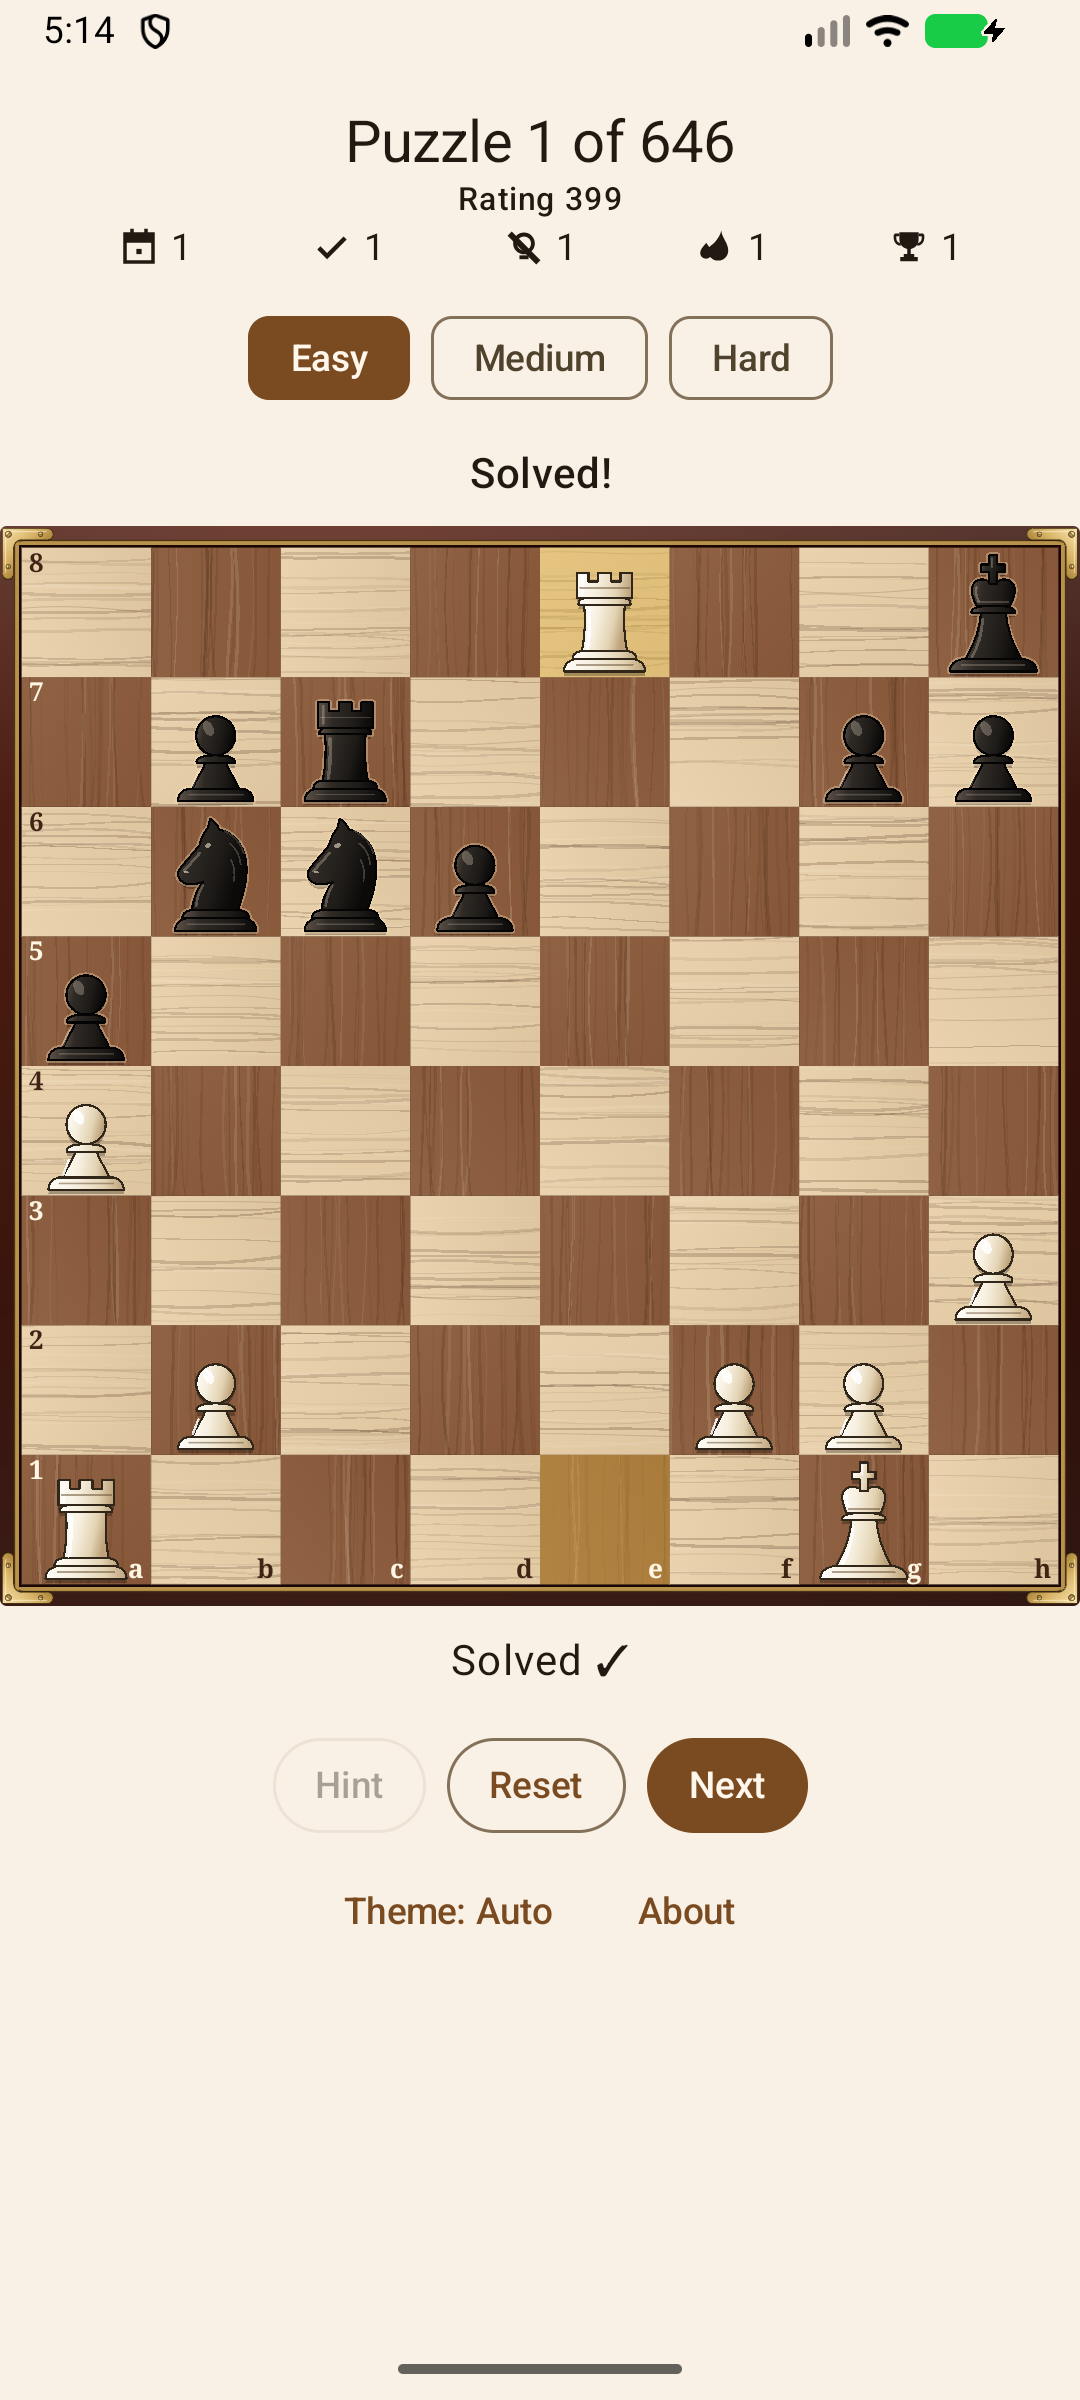
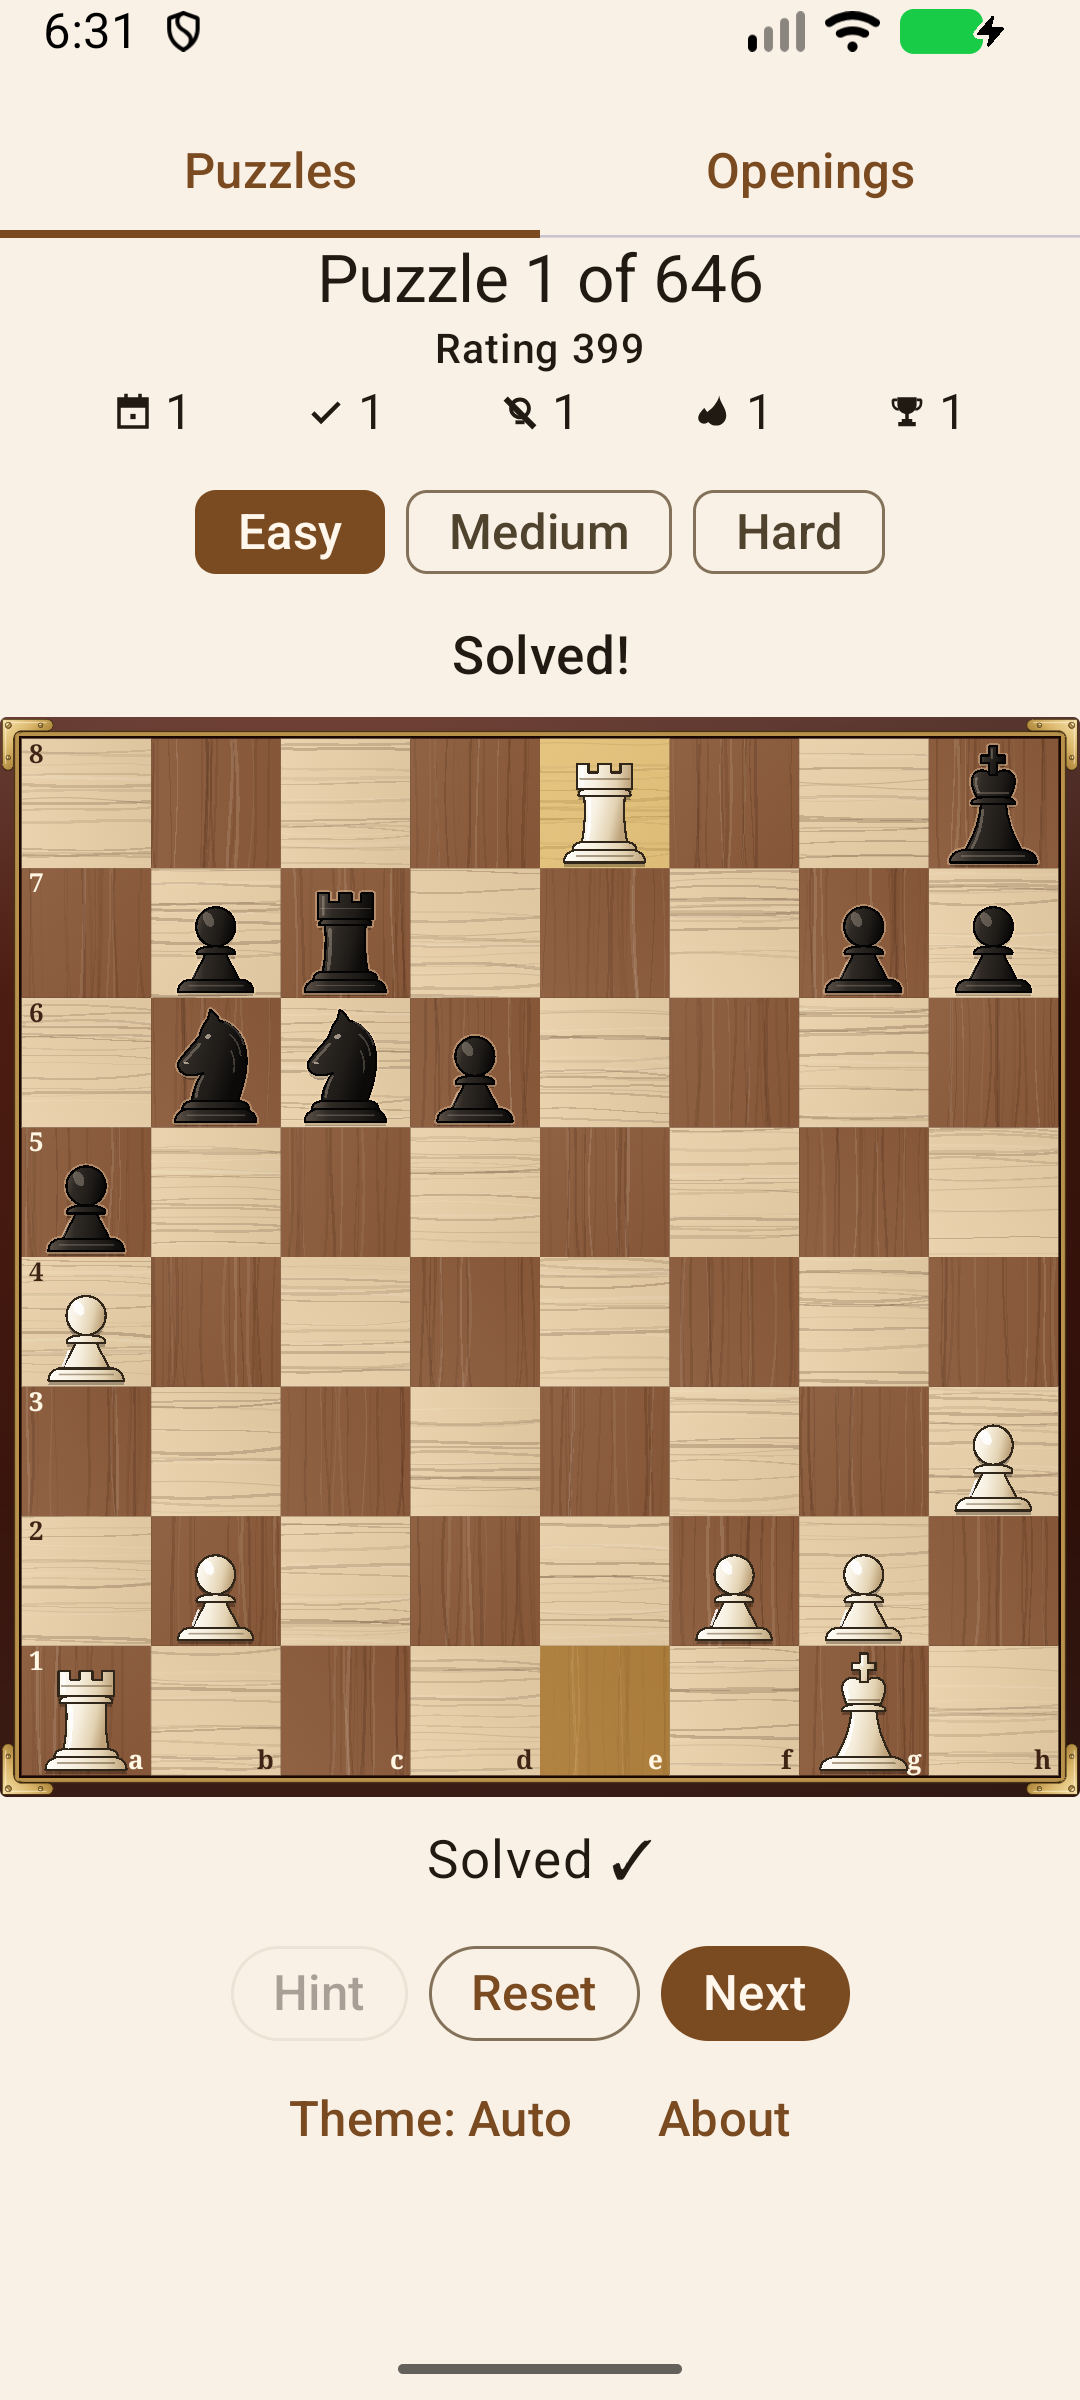
chore: prepare the 0.5.15 release
VERSION_NAME 0.5.15, VERSION_CODE 5015, its changelog, the Openings tab
in the F-Droid description (with the CC0 source of the opening names),
and fresh screenshots showing the tabs, plus one of Learn for the site's
README and F-Droid.

Claude-Session: https://claude.ai/code/session_015DTcs4n6vbQGhzc9iZ1YHV

diff --git a/README.md b/README.md
@@ -7,7 +7,7 @@ An Android chess **puzzle** game — Kotlin + Jetpack Compose, built and run ent
 line (no Android Studio). Solve Lichess tactical puzzles with announced goals (e.g. "checkmate in 2"),
 difficulty bands (Easy/Medium/Hard), day/night themes, and saved progress on-device.
 
-<img src="docs/screenshot.png" alt="Chess Puzzles in light mode" width="250" /> <img src="docs/screenshot-night.png" alt="Chess Puzzles in night mode" width="250" /> <img src="docs/screenshot-solved.png" alt="A solved puzzle" width="250" />
+<img src="docs/screenshot.png" alt="Chess Puzzles in light mode" width="250" /> <img src="docs/screenshot-night.png" alt="Chess Puzzles in night mode" width="250" /> <img src="docs/screenshot-solved.png" alt="A solved puzzle" width="250" /> <img src="docs/screenshot-openings.png" alt="Learning the Italian Game in the Openings tab" width="250" />
 
 _Light mode with goal line and difficulty chips (left), night mode (center), solved puzzle (right)._
 
